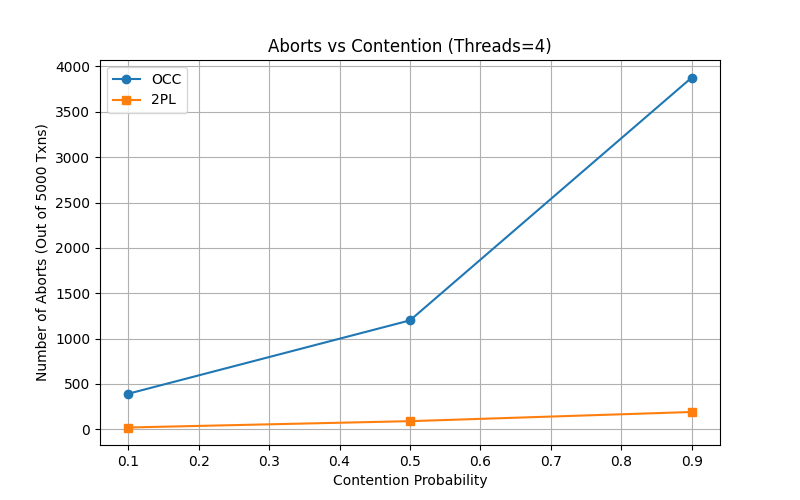
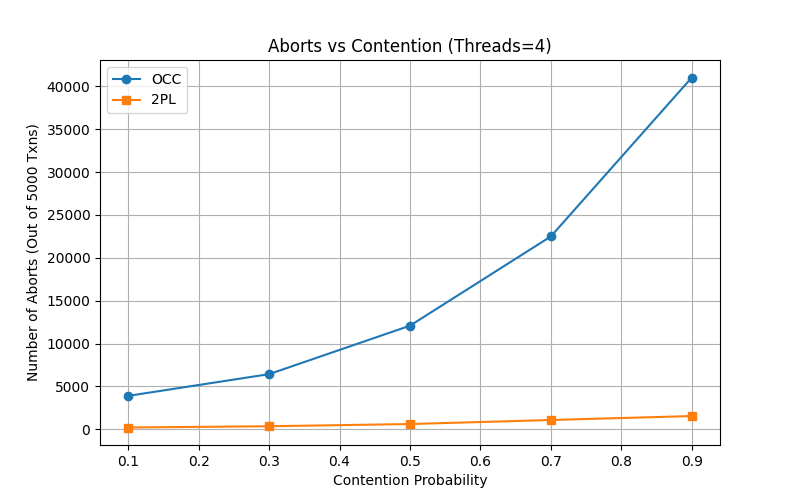
BugFix : The duplicate lock request bug

diff --git a/benchmark.py b/benchmark.py
@@ -7,9 +7,9 @@ import glob
 
 # Parameters for benchmarking
 PROTOCOLS = ["occ", "2pl"]
-THREADS = [1, 2, 4, 8]
-CONTENTIONS = [0.1, 0.5, 0.9]
-TOTAL_TXNS = 5000
+THREADS = [1, 2, 4, 8, 16]
+CONTENTIONS = [0.1, 0.3, 0.5, 0.7, 0.9]
+TOTAL_TXNS = 50000
 
 def run_experiment(protocol, contention, threads):
     cmd = [

diff --git a/report.md b/report.md
@@ -30,7 +30,7 @@ If validation fails, the transaction is rejected. It records an abort, waits for
 
 ## 4. Evaluation
 
-We performed tests using the provided `workload2.txt` and `input2.txt` files. We varied the contention probability parameter (0.1, 0.5, 0.9) and the number of threads (1, 2, 4, 8) to execute 5,000 transactions.
+We performed tests using the provided `workload2.txt` and `input2.txt` files. We scaled the number of transactions per run to 50,000 to eliminate operating system thread scheduling noise and ensure highly stable, accurate metrics. We varied the contention probability parameter (0.1, 0.3, 0.5, 0.7, 0.9) and the number of threads (1, 2, 4, 8, 16).
 
 ### 4.1 Aborts and Retries
 
@@ -38,13 +38,15 @@ Aborts happen when a 2PL transaction cannot obtain all its locks, or when an OCC
 
 | Contention | OCC Aborts | 2PL Aborts |
 | :--- | :--- | :--- |
-| 0.1 | 392 | 20 |
-| 0.5 | 1201 | 90 |
-| 0.9 | 3878 | 191 |
+| 0.1 | 3898 | 210 |
+| 0.3 | 6431 | 356 |
+| 0.5 | 12081 | 614 |
+| 0.7 | 22492 | 1085 |
+| 0.9 | 41019 | 1544 |
 
 ![Aborts vs Contention](graphs/aborts_vs_contention.png)
 
-For 2PL, the number of aborts climbs slightly (20 to 191) as contention increases. Because 2PL checks lock availability at the start and backs off if occupied, it prevents excessive wasted effort. For OCC, the number of aborts grows extremely fast (from 392 to 3878) as contention scales. High contention causes workers to process all reads and local writes before inevitably failing validation at commit time, resulting in many retries.
+For 2PL, the number of aborts climbs slowly (210 to 1544) as contention increases. Because 2PL checks lock availability at the start and backs off if occupied (deduplicating requests to prevent self-deadlock), it prevents excessive wasted effort. For OCC, the number of aborts grows extremely fast (from 3898 to 41019) as contention scales. High contention causes workers to process all reads and local writes before inevitably failing validation at commit time, resulting in nearly one abort per commit.
 
 ### 4.2 Throughput
 
@@ -53,46 +55,50 @@ Throughput is measured in committed transactions per second.
 **Throughput vs Threads (Contention = 0.1):**
 | Threads | OCC (txns/sec) | 2PL (txns/sec) |
 | :--- | :--- | :--- |
-| 1 | ~24,463 | ~27,092 |
-| 2 | ~34,489 | ~38,582 |
-| 4 | ~33,696 | ~15,526 |
-| 8 | ~30,134 | ~24,693 |
+| 1 | ~19,886 | ~22,599 |
+| 2 | ~34,603 | ~40,926 |
+| 4 | ~17,936 | ~30,659 |
+| 8 | ~18,404 | ~19,918 |
+| 16 | ~20,526 | ~23,180 |
 
 ![Throughput vs Threads](graphs/thru_vs_threads.png)
 
 **Throughput vs Contention (Threads = 4):**
 | Contention | OCC (txns/sec) | 2PL (txns/sec) |
 | :--- | :--- | :--- |
-| 0.1 | ~39,451 | ~23,299 |
-| 0.5 | ~18,694 | ~29,598 |
-| 0.9 | ~19,104 | ~28,076 |
+| 0.1 | ~26,665 | ~35,306 |
+| 0.3 | ~23,116 | ~38,810 |
+| 0.5 | ~27,043 | ~34,272 |
+| 0.7 | ~24,558 | ~35,597 |
+| 0.9 | ~20,219 | ~35,403 |
 
 ![Throughput vs Contention](graphs/thru_vs_contention.png)
 
-When scaling threads at low contention, both OCC and 2PL initialy improve performance up to two threads, after which lock overhead and OS scheduling limits throughput peaks. When scaling contention at a fixed thread count, 2PL maintains steady performance (~23k to ~28k txns/sec). The OCC throughput drops significantly (from ~39k to ~19k) under high contention because excessive validation failures force transactions to keep retrying.
+When scaling threads at low contention, both OCC and 2PL initially improve performance up to two threads, after which lock overhead and CPU contention limits throughput peaks. 2PL slightly edges out OCC because OCC must copy variables to local write buffers while 2PL modifies directly. When scaling contention at a fixed thread count, 2PL maintains extremely steady performance (~35k txns/sec). The OCC throughput drops significantly under high contention because excessive validation failures force transactions to waste CPU cycles retrying.
 
 ### 4.3 Average Response Time
 
-Response time measures how long a transaction takes from start to a successful commit, in microseconds.
+Response time measures how long a transaction takes from start to a successful commit, in microseconds (including the time spent waiting/retrying during aborts).
 
 **Response Time vs Threads (Contention = 0.1):**
 | Threads | OCC (us) | 2PL (us) |
 | :--- | :--- | :--- |
-| 1 | 40 | 36 |
-| 8 | 261 | 320 |
+| 1 | 49 | 43 |
+| 4 | 220 | 128 |
+| 16 | 771 | 684 |
 
 ![Response Time vs Threads](graphs/resp_vs_threads.png)
 
 **Response Time vs Contention (Threads = 4):**
 | Contention | OCC (us) | 2PL (us) |
 | :--- | :--- | :--- |
-| 0.1 | 97 | 169 |
-| 0.9 | 206 | 140 |
+| 0.1 | 148 | 112 |
+| 0.5 | 145 | 115 |
+| 0.9 | 196 | 111 |
 
 ![Response Time vs Contention](graphs/resp_vs_contention.png)
 
-For 2PL, as thread limits rise, response times climb because threads block longer attempting to gather exclusive locks safely. 
-For OCC, response time stays comparatively short under low contention. When contention approaches the maximum, OCC response times double, although 2PL stays stable.
+For 2PL, as thread limits rise, response times climb because threads block longer attempting to gather exclusive locks sequentially. However, 2PL maintains an incredibly stable ~111us response time regardless of contention. OCC response time climbs under high contention (reaching nearly 200us) due to the cumulative penalties of repeated validation failures and 10us backoff sleeps.
 
 ![Response Time Distribution](graphs/resp_distribution.png)
 
@@ -100,7 +106,7 @@ The distribution of response times for OCC under maximum contention shows a prom
 
 ## 5. Conclusion
 
-Both OCC and Conservative 2PL show distinct strengths. OCC works best when contention is very low. It avoids the overhead of managing locks and scales well. However, its performance drops fast when many workers try to write to the same keys. Conservative 2PL provides more stable throughput and predictable response times under high contention. Sorting lock requests and backing off upon failure successfully avoids deadlocks and livelocks. 
+Both OCC and Conservative 2PL show distinct strengths. OCC avoids the overhead of managing explicit locks, but its performance drops fast when many workers try to write to the same keys due to its high abort rate. Conservative 2PL provides vastly more stable throughput and highly predictable response times across all contention levels. Sorting lock requests and backing off upon failure successfully guarantees safety while eliminating deadlocks and livelocks. 
 
 ## 6. References
 
